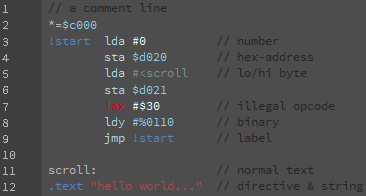
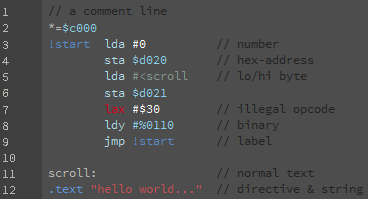
minor fixes, added help file

diff --git a/src/de/relaunch64/popelganda/resources/help.html b/src/de/relaunch64/popelganda/resources/help.html
@@ -9,8 +9,8 @@
     li { margin-bottom:5px; }
     a { color:#000099; text-decoration:none; }
     a:hover { text-decoration:underline; }
-    .pcode {font-family:monospace; background-color:#f2f2f2; padding:3px } 
-    code { font-family:monospace; color:#444444; background-color:#eeeeee; }
+    .pcode {font-family:monospace; background-color:#f2f2f2; padding:3px; font-size:1em; } 
+    code { font-family:monospace; color:#444444; background-color:#eeeeee; font-size:1em; }
   </style> 
 </head>
 <body>
@@ -48,16 +48,83 @@
 
 <h2>Drag &amp; drop</h2>
 <p>
-	
+	You can drag &amp; drop files from the file explorer (or finder, nautilus, etc.) into
+        the editor area to either open them or include them into your source. The drop operation
+        depends on which modifier keys (<code>shift</code> and <code>control</code>) you hold
+        down while dropping the selected file(s).
 </p>
+<ul>
+    <li>
+        Without pressing and holding <code>shift</code> and <code>control</code> keys
+        <ul>
+            <li>Assembler files (with file extension <code>.a</code> or <code>.asm</code>) will be opened.</li>
+            <li>
+                Binary or files files (with file extension <code>.bin</code>, <code>.c64</code> or <code>.txt</code>) will be included via 
+                <code>!bin</code>, <code>.import</code> or <code>.binary</code> directive (depending on the assembler).
+            </li>
+        </ul>
+    </li>
+    <li>
+        Pressing and holding the <code>control</code> key
+        <ul>
+            <li>
+                Assembler files (with file extension <code>.a</code> or <code>.asm</code>) will be included via
+                <code>!src</code>, <code>.import</code> or <code>.binclude</code> directive (depending on the assembler).
+            </li>
+            <li>
+                Binary or files files (with file extension <code>.bin</code>, <code>.c64</code> or <code>.txt</code>) will be included as
+                byte table (see function <em>Insert bytes from file</em> in Source menu).
+            </li>
+        </ul>
+    </li>
+    <li>
+        Pressing and holding both <code>shift</code> and <code>control</code> keys
+        <ul>
+            <li>
+                The file path in quotes will be inserted at the caret position.
+            </li>
+        </ul>
+    </li>
+</ul>
 
 <h1><a name="filemenu">File menu</a></h1>
 
+<p>
+    This menu includes typical file operations like opening, saving and closing files.
+    Note that the latest ten recent files can be opened quickly via the <em>Recent files</em>
+    submenu, and that the associated compiler and user script settings will be restored
+    automatically when opening a recent document.
+</p>
+
 <h1><a name="editmenu">Edit menu</a></h1>
+
+<p>
+    This menu contains the default edit operations like cut, copy, paste, but also undo
+    and redo.
+</p>
 
 <h1><a name="findmenu">Find menu</a></h1>
 
+<p>
+    Contains all find and replace operation for current active documents. Both the
+    <em>Find searchterm</em> and the <em>Replace</em> command will open an edit
+    field below the source code window where find and replace terms can be edited.
+</p>
+
+<p>
+    The <em>Find searchterm</em> function also accepts <em>regular expressions</em>.
+</p>
+
+<p>
+    Use buttons beside the text fields or menu shortcuts / hotkeys to jump to
+    the next or previous occurence of a searchterm.
+</p>
+
 <h1><a name="navigatemenu">Navigate menu</a></h1>
+
+<p>
+    
+</p>
 
 <h1><a name="sourcemenu">Source menu</a></h1>
 

diff --git a/src/de/relaunch64/popelganda/resources/help_userscripts.html b/src/de/relaunch64/popelganda/resources/help_userscripts.html
@@ -9,7 +9,7 @@
     li { margin-bottom:5px; }
     a { color:#000099; text-decoration:none; }
     a:hover { text-decoration:underline; }
-    .pcode {font-family:monospace; background-color:#f2f2f2; padding:3px } 
+    .pcode {font-family:monospace; background-color:#f2f2f2; padding:3px; font-size:1em; } 
   </style> 
 </head>
 <body>

diff --git a/src/de/relaunch64/popelganda/Editor/ColorSchemes.java b/src/de/relaunch64/popelganda/Editor/ColorSchemes.java
@@ -274,16 +274,16 @@ public class ColorSchemes {
         else if (SCHEME_POPELGANDA==scheme) {
             switch (tokentype) {
                 case COLOR_NORMAL: return new Color(185,185,180); 
-                case COLOR_COMMENT: return new Color(38,38,38);
-                case COLOR_STRING: return new Color(178,71,76);
+                case COLOR_COMMENT: return new Color(35,35,35);
+                case COLOR_STRING: return new Color(199,80,86);
                 case COLOR_NUMBER: return new Color(255,255,255);
                 case COLOR_HEX: return new Color(139,207,234);
                 case COLOR_BIN: return new Color(139,207,234);
                 case COLOR_JUMP: return new Color(89,138,199); 
-                case COLOR_LOHI: return new Color(124,142,134);
+                case COLOR_LOHI: return new Color(133,153,144);
                 case COLOR_KEYWORD: return new Color(175,217,229);
-                case COLOR_COMPILERKEYWORD: return new Color(89,138,199);
-                case COLOR_ILLEGALOPCODE: return new Color(236,2,30);
+                case COLOR_COMPILERKEYWORD: return new Color(98,150,217);
+                case COLOR_ILLEGALOPCODE: return new Color(217,2,28);
                 case BACKGROUND: return new Color(77,77,77);
                 case LINE_BACKGROUND: return new Color(63,63,63); // 11,55,66
                 case LINE_BORDER: return new Color(63,63,63);

diff --git a/src/de/relaunch64/popelganda/SettingsDlg.java b/src/de/relaunch64/popelganda/SettingsDlg.java
@@ -86,8 +86,6 @@ public class SettingsDlg extends javax.swing.JDialog implements DropTargetListen
         setIconImage(ConstantsR64.r64icon.getImage());
         // set Mnemonic keys
         jButtonApplyScript.setDisplayedMnemonicIndex(0);
-        jButtonApplyTabAndFont.setDisplayedMnemonicIndex(0);
-        jButtonApplyScheme.setDisplayedMnemonicIndex(0);
         jButtonRemoveScript.setDisplayedMnemonicIndex(0);
         // disable apply buttons
         setModifiedTabScript(false);
